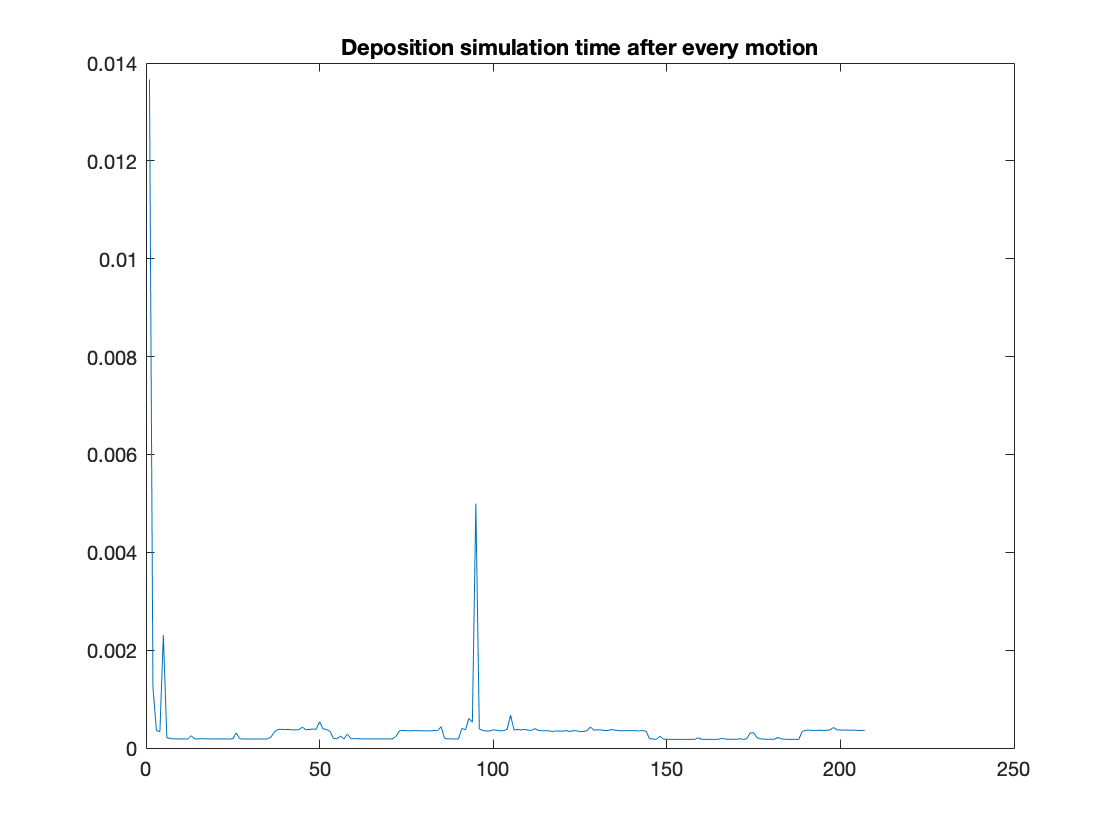
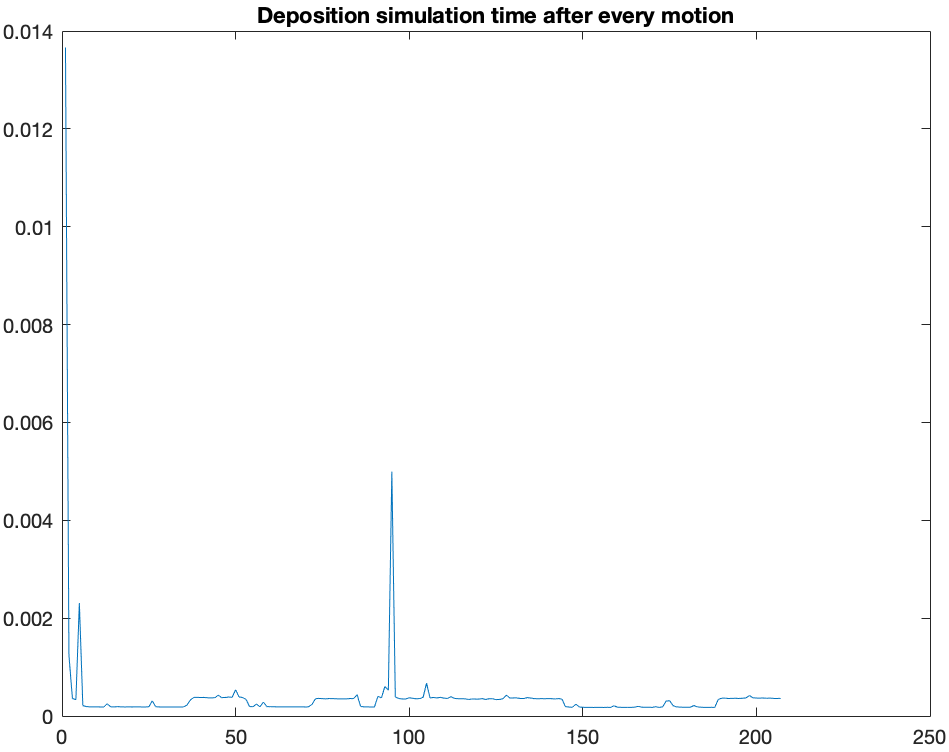
imgs

diff --git a/simulation/coldspray_simulation_3D/README.md b/simulation/coldspray_simulation_3D/README.md
@@ -10,13 +10,14 @@ Run *simulation.m* in matlab
 
 The method assume that the deposition follows a Gaussian distribution.
 
-![deposition model](imgs/deposition_distribution.png)
+<img src="imgs/deposition_distribution.png">
 
 It then used the assumption to "grow" the points of meshes of the model.
 
-![eq1](imgs/eq_1.png)
+<img src="imgs/eq_1.png">
 
-![eq2](imgs/eq_2.png)
+<img src="imgs/eq_1.png">
+
 
 ### Assumption (for now)
 1. The robot motions are moveL with constant speed.
@@ -28,22 +29,22 @@ It then used the assumption to "grow" the points of meshes of the model.
 
 The test mold looks like below
 
-![mold](imgs/mold.png)
+<img src="imgs/mold.png" height="300">
 
 ### Simulation Result with Robot path
 
 Robot path and mesh (cross section)
 
-![robot_path](imgs/mold_and_robot_path_cross_section.png)
+<img src="imgs/mold_and_robot_path_cross_section.png" height="300">
 
 Simulation result
 
-![result](imgs/coldspray_simulation_result.png)
+<img src="imgs/coldspray_simulation_result.png" height="300">
 
 Calculation time
 
 Mean: 7.23e-04
 Std: 0.0022
 
-![duration](imgs/duration.png)
+<img src="imgs/duration.png" height="300">
 
